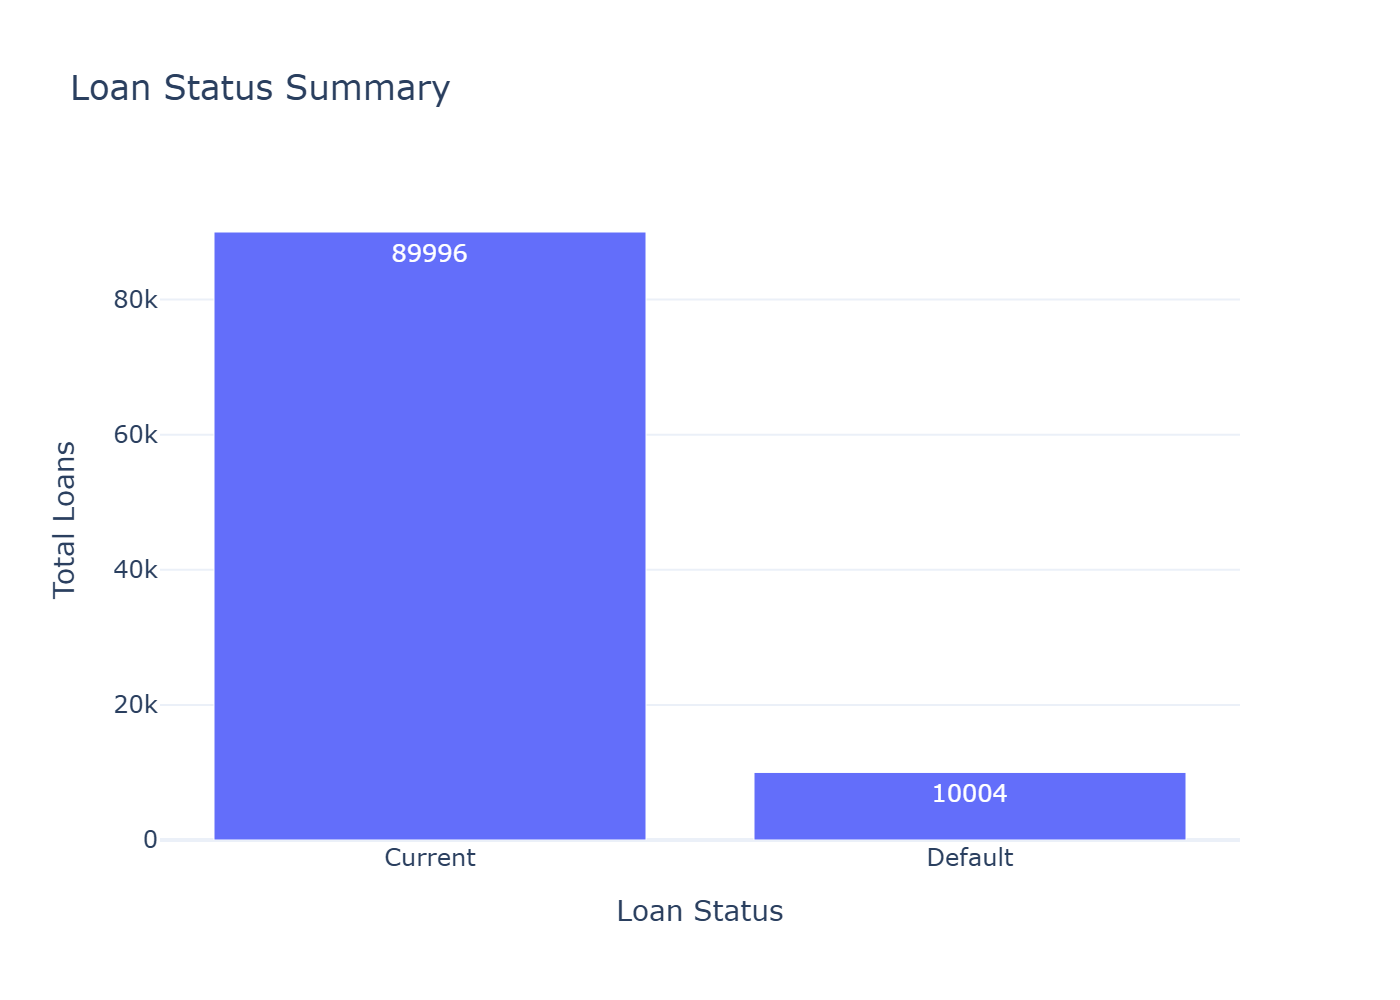
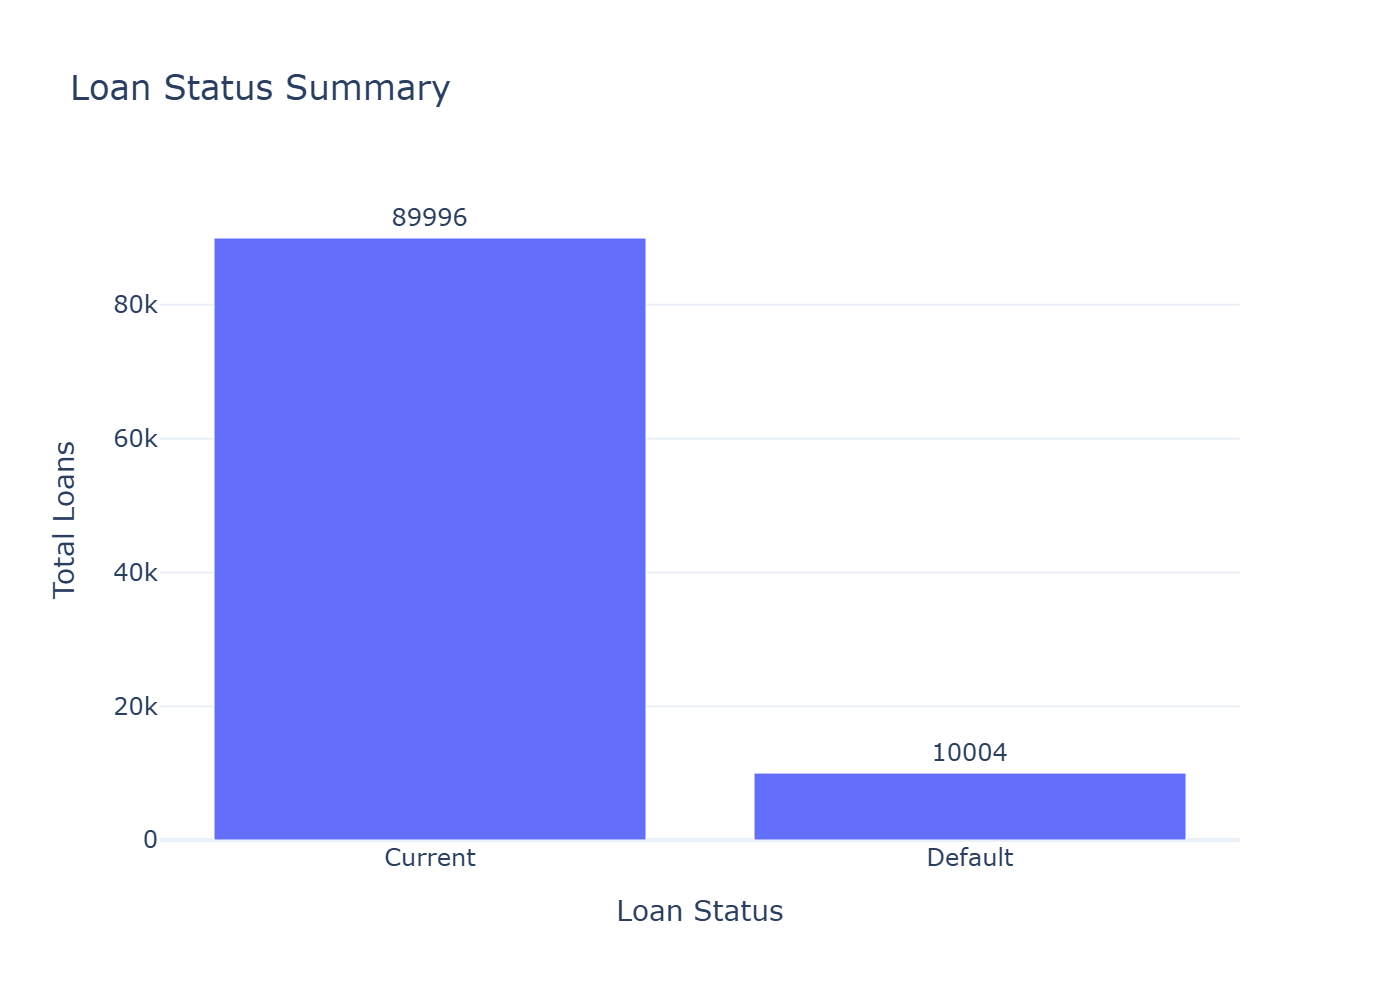
Update risk visual from charged-off rate to default rate

diff --git a/scripts/risk_visuals.py b/scripts/risk_visuals.py
@@ -37,11 +37,11 @@ queries = {
         SELECT
             LEFT(grade, 1) AS grade_band,
             COUNT(*) AS total_loans,
-            SUM(CASE WHEN loan_status = 'Charged Off' THEN 1 ELSE 0 END) AS charged_off_loans,
+            SUM(CASE WHEN loan_status = 'Default' THEN 1 ELSE 0 END) AS default_loans,
             ROUND(
-                100.0 * SUM(CASE WHEN loan_status = 'Charged Off' THEN 1 ELSE 0 END) / COUNT(*),
+                100.0 * SUM(CASE WHEN loan_status = 'Default' THEN 1 ELSE 0 END) / COUNT(*),
                 2
-            ) AS charged_off_rate_percentage
+            ) AS default_rate_percentage
         FROM loans
         GROUP BY LEFT(grade, 1)
         ORDER BY grade_band;
@@ -73,27 +73,43 @@ fig1 = px.bar(
     y="total_loans",
     text="total_loans",
     title="Loan Status Summary",
-    labels={"loan_status": "Loan Status", "total_loans": "Total Loans"}
+    labels={
+        "loan_status": "Loan Status",
+        "total_loans": "Total Loans"
+    }
 )
-fig1.update_layout(template="plotly_white")
+fig1.update_traces(textposition="outside")
+fig1.update_layout(
+    template="plotly_white",
+    xaxis_title="Loan Status",
+    yaxis_title="Total Loans"
+)
 fig1.write_image(SCREENSHOT_DIR / "loan_status_summary.png", scale=2)
 fig1.write_html(OUTPUT_DIR / "loan_status_summary.html")
 
-# Visual 2: Charged-off rate by grade band
+# Visual 2: Default rate by grade band
 fig2 = px.bar(
     dataframes["grade_default_rate"],
     x="grade_band",
-    y="charged_off_rate_percentage",
-    text="charged_off_rate_percentage",
-    title="Charged-Off Rate by Risk Grade",
+    y="default_rate_percentage",
+    text="default_rate_percentage",
+    title="Default Rate by Risk Grade",
     labels={
         "grade_band": "Risk Grade",
-        "charged_off_rate_percentage": "Charged-Off Rate (%)"
+        "default_rate_percentage": "Default Rate (%)"
     }
 )
-fig2.update_layout(template="plotly_white")
-fig2.write_image(SCREENSHOT_DIR / "charged_off_rate_by_grade.png", scale=2)
-fig2.write_html(OUTPUT_DIR / "charged_off_rate_by_grade.html")
+fig2.update_traces(
+    texttemplate="%{text:.2f}%",
+    textposition="outside"
+)
+fig2.update_layout(
+    template="plotly_white",
+    xaxis_title="Risk Grade",
+    yaxis_title="Default Rate (%)"
+)
+fig2.write_image(SCREENSHOT_DIR / "default_rate_by_grade.png", scale=2)
+fig2.write_html(OUTPUT_DIR / "default_rate_by_grade.html")
 
 # Visual 3: DTI group summary
 fig3 = px.pie(
@@ -102,6 +118,7 @@ fig3 = px.pie(
     values="borrower_count",
     title="Borrower Distribution by DTI Group"
 )
+fig3.update_traces(textinfo="percent+label")
 fig3.update_layout(template="plotly_white")
 fig3.write_image(SCREENSHOT_DIR / "dti_group_distribution.png", scale=2)
 fig3.write_html(OUTPUT_DIR / "dti_group_distribution.html")

diff --git a/README.md b/README.md
@@ -35,7 +35,7 @@ Files used:
 
 ## Key SQL Analysis
 - Loan status summary
-- Risk grade default rate
+- Default Rate by Risk Grade
 - Loan purpose risk analysis
 - Debt-to-income grouping
 - Borrower and loan risk profile
@@ -57,5 +57,13 @@ Files used:
 ## Repository Structure
 Add your folder structure here.
 
-## Screenshots
-Add your main screenshots here.
+## Key Visuals
+
+### Loan Status Summary
+![Loan Status Summary](screenshots/loan_status_summary.png)
+
+### Default Rate by Risk Grade
+![Default Rate by Risk Grade](screenshots/default_rate_by_grade.png)
+
+### Borrower Distribution by DTI Group
+![Borrower Distribution by DTI Group](screenshots/dti_group_distribution.png)